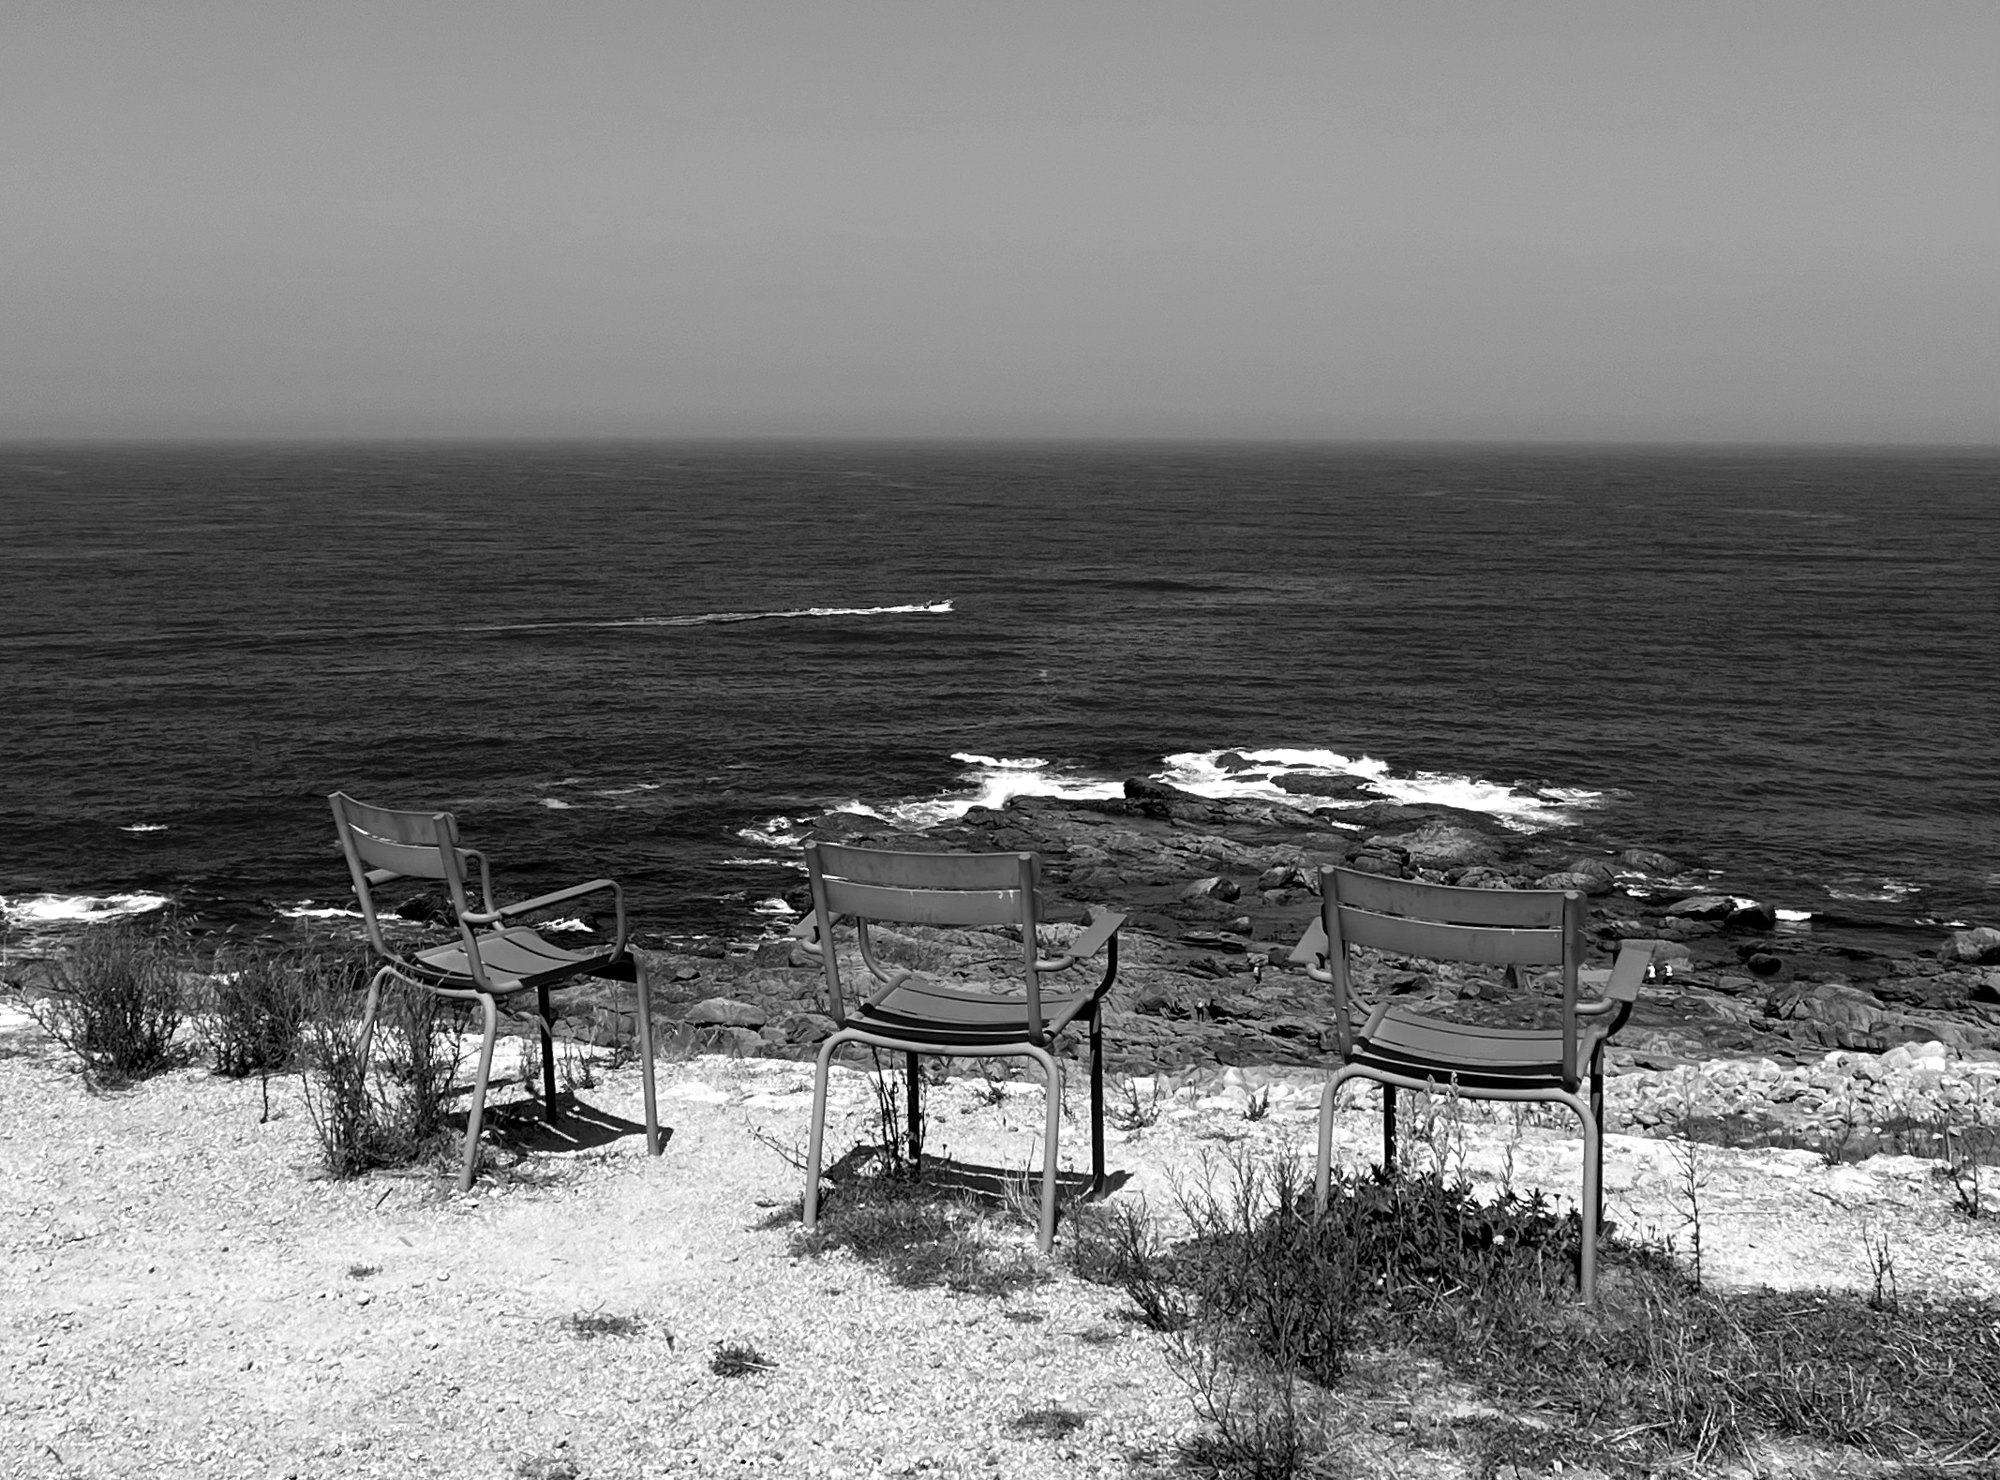
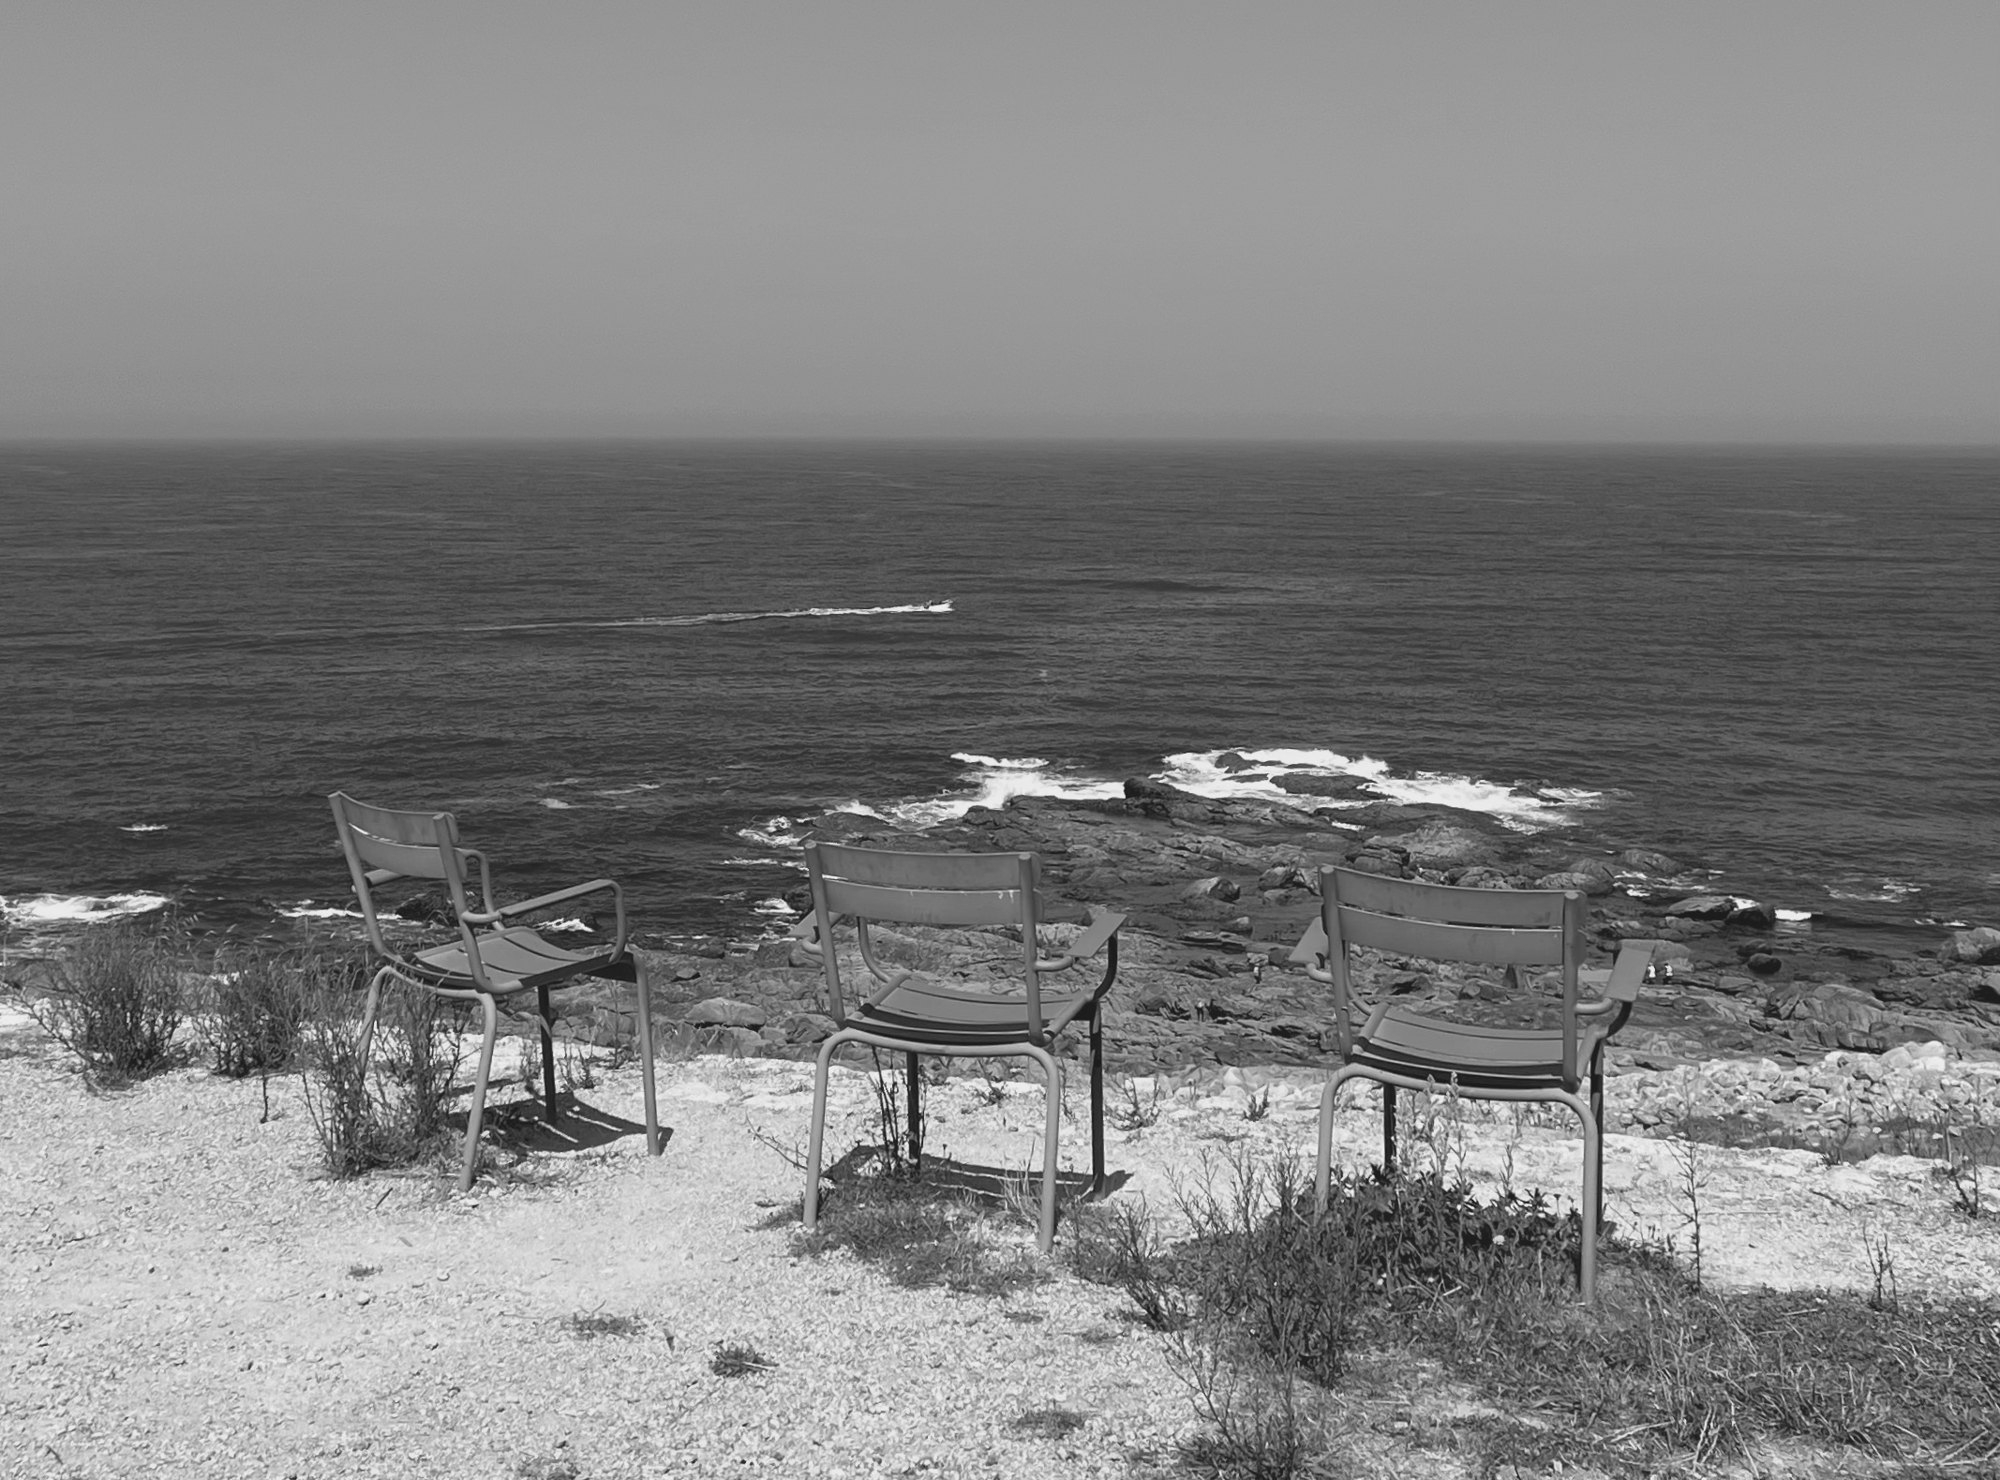
Nosotros: foto más suave (menos contraste y oscurecido)
Claude-Session: https://claude.ai/code/session_01RxBhARZN6EdtrMPafiqgfm

Changed region(s): [[0.0, 0.3419, 1.0, 1.0]]

diff --git a/opciones-nosotros-foto.html b/opciones-nosotros-foto.html
@@ -10,14 +10,14 @@
 <link rel="preconnect" href="https://fonts.googleapis.com">
 <link rel="preconnect" href="https://fonts.gstatic.com" crossorigin>
 <link rel="stylesheet" href="https://fonts.googleapis.com/css2?family=Poppins:wght@300;400;500;600;800&family=DM+Mono:wght@400&display=swap">
-<link rel="stylesheet" href="css/estilos.css?v=202611041059">
+<link rel="stylesheet" href="css/estilos.css?v=202611041102">
 <style>
 .fbar{position:fixed;left:50%;bottom:18px;transform:translateX(-50%);z-index:90;display:flex;gap:6px;padding:6px;border-radius:999px;background:rgba(11,11,11,.9);font:400 11px "DM Mono",monospace;letter-spacing:.06em;text-transform:uppercase}
 .fbar button{border:0;border-radius:999px;padding:8px 14px;background:none;color:#F1F0E8;cursor:pointer;font:inherit;letter-spacing:inherit;text-transform:inherit}
 .fbar button[aria-pressed="true"]{background:#F1F0E8;color:#0b0b0b}
 .nab__bg{transition:filter .4s}
-body[data-b="1"] .nab__bg{filter:blur(3px) brightness(calc(1 - (1 - var(--k,1))*.45))}
-body[data-b="2"] .nab__bg{filter:blur(8px) brightness(calc(1 - (1 - var(--k,1))*.45))}
+body[data-b="1"] .nab__bg{filter:blur(3px) brightness(calc(1 - (1 - var(--k,1))*.32))}
+body[data-b="2"] .nab__bg{filter:blur(8px) brightness(calc(1 - (1 - var(--k,1))*.32))}
 </style>
 </head>
 <body>
@@ -49,7 +49,7 @@ body[data-b="2"] .nab__bg{filter:blur(8px) brightness(calc(1 - (1 - var(--k,1))*
   </div>
   <div class="foot__base"><span>© 2026 Launch Studio. Todos los derechos reservados.</span><span>Estudio creativo especializado en stands y eventos corporativos</span></div>
 </footer>
-<script src="js/sitio.js?v=202611041059"></script>
+<script src="js/sitio.js?v=202611041102"></script>
 <div class="fbar" role="group" aria-label="Foto"><button data-b="0" aria-pressed="true">Nítida</button><button data-b="1" aria-pressed="false">Un poco desenfocada</button><button data-b="2" aria-pressed="false">Desenfocada</button></div>
 <script>document.querySelectorAll('.fbar button').forEach(b=>b.onclick=()=>{document.body.dataset.b=b.dataset.b;document.querySelectorAll('.fbar button').forEach(x=>x.setAttribute('aria-pressed',x===b))})</script>
 </body>

diff --git a/servicios/stands.html b/servicios/stands.html
@@ -10,7 +10,7 @@
 <link rel="preconnect" href="https://fonts.googleapis.com">
 <link rel="preconnect" href="https://fonts.gstatic.com" crossorigin>
 <link rel="stylesheet" href="https://fonts.googleapis.com/css2?family=Poppins:wght@300;400;500;600;800&family=DM+Mono:wght@400&display=swap">
-<link rel="stylesheet" href="../css/estilos.css?v=202611041059">
+<link rel="stylesheet" href="../css/estilos.css?v=202611041102">
 <style>
 /* Subpágina de Stands. Portada: el stand se dibuja en plano, se levanta en 3D, se fabrica y se monta mientras bajas. */
 .sv{--paper:#F7F6F1;--grey:#5f5d56;--line:rgba(11,11,11,.14);--font:"Poppins",system-ui,sans-serif;--mono:"DM Mono",ui-monospace,Menlo,monospace;--ease:cubic-bezier(.7,0,.2,1);--bh:var(--nh,64px)}
@@ -231,7 +231,7 @@
   <div class="foot__base"><span>© 2026 Launch Studio. Todos los derechos reservados.</span><span>Estudio creativo especializado en stands y eventos corporativos</span></div>
 </footer>
 <svg width="0" height="0" style="position:absolute" aria-hidden="true"><defs><pattern id="hatch" width="6" height="6" patternUnits="userSpaceOnUse" patternTransform="rotate(45)"><line x1="0" y1="0" x2="0" y2="6" stroke="#0b0b0b" stroke-width="1" opacity=".35"/></pattern></defs></svg>
-<script src="../js/sitio.js?v=202611041059"></script>
+<script src="../js/sitio.js?v=202611041102"></script>
 <script type="module">
 import { createBuild } from '../assets/js/stand-build.js?v=202611031545';
 const PH=[[0,'01','El espacio vacío'],[.10,'02','La estructura'],[.30,'03','La arquitectura'],[.48,'04','El mobiliario'],[.64,'05','La marca'],[.74,'06','La luz'],[.9,'','']];

diff --git a/servicios/experiencias.html b/servicios/experiencias.html
@@ -10,7 +10,7 @@
 <link rel="preconnect" href="https://fonts.googleapis.com">
 <link rel="preconnect" href="https://fonts.gstatic.com" crossorigin>
 <link rel="stylesheet" href="https://fonts.googleapis.com/css2?family=Poppins:wght@300;400;500;600;800&family=DM+Mono:wght@400&display=swap">
-<link rel="stylesheet" href="../css/estilos.css?v=202611041059">
+<link rel="stylesheet" href="../css/estilos.css?v=202611041102">
 <style>
 /* Subpágina de Experiencias de marca. Portada: la activación se dibuja, se levanta, se traza el recorrido y la gente lo vive mientras bajas. */
 .sv{--paper:#F7F6F1;--grey:#5f5d56;--line:rgba(11,11,11,.14);--font:"Poppins",system-ui,sans-serif;--mono:"DM Mono",ui-monospace,Menlo,monospace;--ease:cubic-bezier(.7,0,.2,1);--bh:var(--nh,64px)}
@@ -209,7 +209,7 @@
   <div class="foot__base"><span>© 2026 Launch Studio. Todos los derechos reservados.</span><span>Estudio creativo especializado en stands y eventos corporativos</span></div>
 </footer>
 <svg width="0" height="0" style="position:absolute" aria-hidden="true"><defs><pattern id="hatch" width="6" height="6" patternUnits="userSpaceOnUse" patternTransform="rotate(45)"><line x1="0" y1="0" x2="0" y2="6" stroke="#0b0b0b" stroke-width="1" opacity=".35"/></pattern></defs></svg>
-<script src="../js/sitio.js?v=202611041059"></script>
+<script src="../js/sitio.js?v=202611041102"></script>
 <script type="module">
 import { createExperience } from '../assets/js/experiencias-3d.js?v=202611031420';
 const STEPS=[

diff --git a/servicios/eventos.html b/servicios/eventos.html
@@ -10,7 +10,7 @@
 <link rel="preconnect" href="https://fonts.googleapis.com">
 <link rel="preconnect" href="https://fonts.gstatic.com" crossorigin>
 <link rel="stylesheet" href="https://fonts.googleapis.com/css2?family=Poppins:wght@300;400;500;600;800&family=DM+Mono:wght@400&display=swap">
-<link rel="stylesheet" href="../css/estilos.css?v=202611041059">
+<link rel="stylesheet" href="../css/estilos.css?v=202611041102">
 <style>
 /* Subpágina de Eventos corporativos. Portada: la sala se dibuja en plano, se levanta, se amuebla y se ilumina mientras bajas. */
 .sv{--paper:#F7F6F1;--grey:#5f5d56;--line:rgba(11,11,11,.14);--font:"Poppins",system-ui,sans-serif;--mono:"DM Mono",ui-monospace,Menlo,monospace;--ease:cubic-bezier(.7,0,.2,1);--bh:var(--nh,64px)}
@@ -204,7 +204,7 @@
   <div class="foot__base"><span>© 2026 Launch Studio. Todos los derechos reservados.</span><span>Estudio creativo especializado en stands y eventos corporativos</span></div>
 </footer>
 <svg width="0" height="0" style="position:absolute" aria-hidden="true"><defs><pattern id="hatch" width="6" height="6" patternUnits="userSpaceOnUse" patternTransform="rotate(45)"><line x1="0" y1="0" x2="0" y2="6" stroke="#0b0b0b" stroke-width="1" opacity=".35"/></pattern></defs></svg>
-<script src="../js/sitio.js?v=202611041059"></script>
+<script src="../js/sitio.js?v=202611041102"></script>
 <script type="module">
 import { createEvent } from '../assets/js/eventos-3d.js?v=202611031355';
 const STEPS=[

diff --git a/css/estilos.css b/css/estilos.css
@@ -387,7 +387,7 @@ h3{font-weight:500;font-size:clamp(20px,1.9vw,26px);line-height:1.2;letter-spaci
 .nab h1,.nab__h{margin:0;font-weight:300;font-size:clamp(40px,7.4vw,128px);line-height:.98;letter-spacing:-.045em;color:var(--ink)}
 .nab h1 em,.nab__h em{font-style:normal;font-weight:600}
 .nab__mask{position:absolute;inset:0;clip-path:circle(calc(24vmin + (1 - var(--k,1))*(1 - var(--k,1))*70vmax) at 50% calc(50% + 30px))}
-.nab__bg{position:absolute;inset:0;background:url("../assets/img/nosotros/nosotros-sillas-mar-bn.jpg") 50% 62%/cover no-repeat;filter:brightness(calc(1 - (1 - var(--k,1))*.45))}
+.nab__bg{position:absolute;inset:0;background:url("../assets/img/nosotros/nosotros-sillas-mar-bn.jpg?v=2") 50% 62%/cover no-repeat;filter:brightness(calc(1 - (1 - var(--k,1))*.32))}
 .nab__ttl--in{position:absolute;inset:0;display:grid;place-items:center;padding-top:60px}
 .nab__ttl--in .nab__h{color:var(--white)}
 .nab__ttl--in .eyebrow{color:var(--white);opacity:.8}

diff --git a/servicios.html b/servicios.html
@@ -10,7 +10,7 @@
 <link rel="preconnect" href="https://fonts.googleapis.com">
 <link rel="preconnect" href="https://fonts.gstatic.com" crossorigin>
 <link rel="stylesheet" href="https://fonts.googleapis.com/css2?family=Poppins:wght@300;400;500;600;800&family=DM+Mono:wght@400&display=swap">
-<link rel="stylesheet" href="css/estilos.css?v=202611041059">
+<link rel="stylesheet" href="css/estilos.css?v=202611041102">
 </head>
 <style>
 /* Servicios a pantalla completa: los cinco a la vista y la foto de fondo cambia con el que señalas.
@@ -88,7 +88,7 @@ body{--hero-fg:#fff}
   </div>
   <div class="foot__base"><span>© 2026 Launch Studio. Todos los derechos reservados.</span><span>Estudio creativo especializado en stands y eventos corporativos</span></div>
 </footer>
-<script src="js/sitio.js?v=202611041059"></script>
+<script src="js/sitio.js?v=202611041102"></script>
 <script>
 (function(){
   var R='https://www.launchstudiogroup.com/',I='assets/img/servicios/';

diff --git a/index.html b/index.html
@@ -10,7 +10,7 @@
 <link rel="preconnect" href="https://fonts.googleapis.com">
 <link rel="preconnect" href="https://fonts.gstatic.com" crossorigin>
 <link rel="stylesheet" href="https://fonts.googleapis.com/css2?family=Poppins:wght@300;400;500;600;800&family=DM+Mono:wght@400&display=swap">
-<link rel="stylesheet" href="css/estilos.css?v=202611041059">
+<link rel="stylesheet" href="css/estilos.css?v=202611041102">
 </head>
 <body class="home">
 <header class="nav nav--over" id="nav">
@@ -125,6 +125,6 @@
   </div>
   <div class="foot__base"><span>© 2026 Launch Studio. Todos los derechos reservados.</span><span>Estudio creativo especializado en stands y eventos corporativos</span></div>
 </footer>
-<script src="js/sitio.js?v=202611041059"></script>
+<script src="js/sitio.js?v=202611041102"></script>
 </body>
 </html>

diff --git a/proyectos/01-taller-amona.html b/proyectos/01-taller-amona.html
@@ -10,7 +10,7 @@
 <link rel="preconnect" href="https://fonts.googleapis.com">
 <link rel="preconnect" href="https://fonts.gstatic.com" crossorigin>
 <link rel="stylesheet" href="https://fonts.googleapis.com/css2?family=Poppins:wght@300;400;500;600;800&family=DM+Mono:wght@400&display=swap">
-<link rel="stylesheet" href="../css/estilos.css?v=202611041059">
+<link rel="stylesheet" href="../css/estilos.css?v=202611041102">
 </head>
 <body>
 <header class="nav" id="nav">
@@ -59,6 +59,6 @@
   </div>
   <div class="foot__base"><span>© 2026 Launch Studio. Todos los derechos reservados.</span><span>Estudio creativo especializado en stands y eventos corporativos</span></div>
 </footer>
-<script src="../js/sitio.js?v=202611041059"></script>
+<script src="../js/sitio.js?v=202611041102"></script>
 </body>
 </html>

diff --git a/proyectos/02-evento-promocion-base4.html b/proyectos/02-evento-promocion-base4.html
@@ -10,7 +10,7 @@
 <link rel="preconnect" href="https://fonts.googleapis.com">
 <link rel="preconnect" href="https://fonts.gstatic.com" crossorigin>
 <link rel="stylesheet" href="https://fonts.googleapis.com/css2?family=Poppins:wght@300;400;500;600;800&family=DM+Mono:wght@400&display=swap">
-<link rel="stylesheet" href="../css/estilos.css?v=202611041059">
+<link rel="stylesheet" href="../css/estilos.css?v=202611041102">
 </head>
 <body>
 <header class="nav" id="nav">
@@ -59,6 +59,6 @@
   </div>
   <div class="foot__base"><span>© 2026 Launch Studio. Todos los derechos reservados.</span><span>Estudio creativo especializado en stands y eventos corporativos</span></div>
 </footer>
-<script src="../js/sitio.js?v=202611041059"></script>
+<script src="../js/sitio.js?v=202611041102"></script>
 </body>
 </html>

diff --git a/proyectos/03-market-the-office-studio.html b/proyectos/03-market-the-office-studio.html
@@ -10,7 +10,7 @@
 <link rel="preconnect" href="https://fonts.googleapis.com">
 <link rel="preconnect" href="https://fonts.gstatic.com" crossorigin>
 <link rel="stylesheet" href="https://fonts.googleapis.com/css2?family=Poppins:wght@300;400;500;600;800&family=DM+Mono:wght@400&display=swap">
-<link rel="stylesheet" href="../css/estilos.css?v=202611041059">
+<link rel="stylesheet" href="../css/estilos.css?v=202611041102">
 </head>
 <body>
 <header class="nav" id="nav">
@@ -59,6 +59,6 @@
   </div>
   <div class="foot__base"><span>© 2026 Launch Studio. Todos los derechos reservados.</span><span>Estudio creativo especializado en stands y eventos corporativos</span></div>
 </footer>
-<script src="../js/sitio.js?v=202611041059"></script>
+<script src="../js/sitio.js?v=202611041102"></script>
 </body>
 </html>

diff --git a/proyectos/04-evento-corporativo-ntt-data.html b/proyectos/04-evento-corporativo-ntt-data.html
@@ -10,7 +10,7 @@
 <link rel="preconnect" href="https://fonts.googleapis.com">
 <link rel="preconnect" href="https://fonts.gstatic.com" crossorigin>
 <link rel="stylesheet" href="https://fonts.googleapis.com/css2?family=Poppins:wght@300;400;500;600;800&family=DM+Mono:wght@400&display=swap">
-<link rel="stylesheet" href="../css/estilos.css?v=202611041059">
+<link rel="stylesheet" href="../css/estilos.css?v=202611041102">
 </head>
 <body>
 <header class="nav" id="nav">
@@ -59,6 +59,6 @@
   </div>
   <div class="foot__base"><span>© 2026 Launch Studio. Todos los derechos reservados.</span><span>Estudio creativo especializado en stands y eventos corporativos</span></div>
 </footer>
-<script src="../js/sitio.js?v=202611041059"></script>
+<script src="../js/sitio.js?v=202611041102"></script>
 </body>
 </html>

diff --git a/proyectos/05-pop-up-store-venca.html b/proyectos/05-pop-up-store-venca.html
@@ -10,7 +10,7 @@
 <link rel="preconnect" href="https://fonts.googleapis.com">
 <link rel="preconnect" href="https://fonts.gstatic.com" crossorigin>
 <link rel="stylesheet" href="https://fonts.googleapis.com/css2?family=Poppins:wght@300;400;500;600;800&family=DM+Mono:wght@400&display=swap">
-<link rel="stylesheet" href="../css/estilos.css?v=202611041059">
+<link rel="stylesheet" href="../css/estilos.css?v=202611041102">
 </head>
 <body>
 <header class="nav" id="nav">
@@ -59,6 +59,6 @@
   </div>
   <div class="foot__base"><span>© 2026 Launch Studio. Todos los derechos reservados.</span><span>Estudio creativo especializado en stands y eventos corporativos</span></div>
 </footer>
-<script src="../js/sitio.js?v=202611041059"></script>
+<script src="../js/sitio.js?v=202611041102"></script>
 </body>
 </html>
